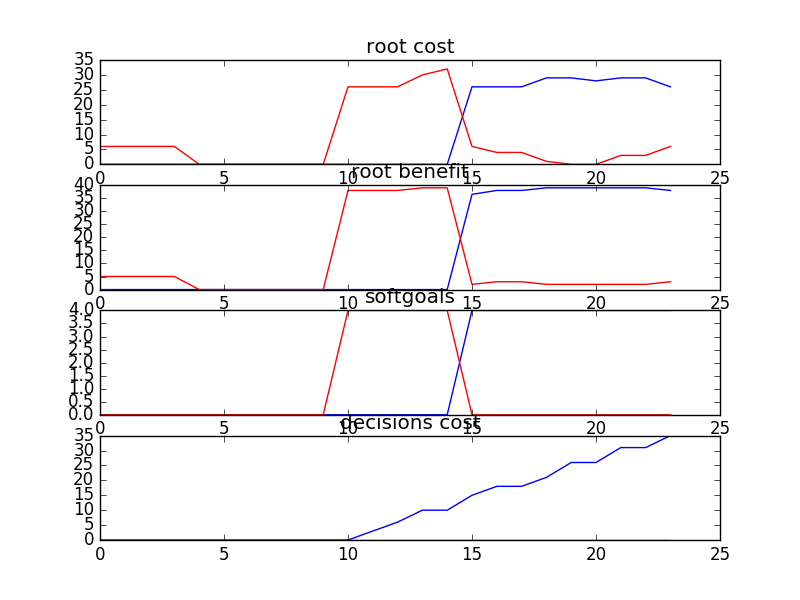
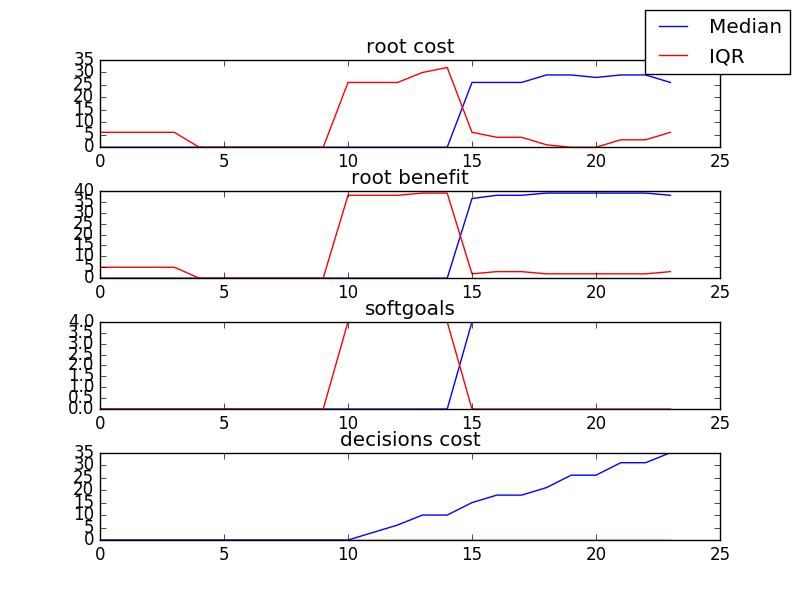
Few changes in plotting

diff --git a/src/utilities/plotter.py b/src/utilities/plotter.py
@@ -3,6 +3,7 @@ from __future__ import print_function, division
 __author__ = 'george'
 
 import matplotlib.pyplot as plt
+import matplotlib.lines as mlines
 import numpy as np
 from lib import *
 
@@ -131,7 +132,8 @@ def line_plot(x_axis, y_axes, fig_name="temp.png"):
   plt.savefig(fig_name)
 
 def med_spread_plot(data, obj_names, fig_name="temp.png", **settings):
-  plt.figure(1)
+  fig = plt.figure(1)
+  fig.subplots_adjust(hspace=0.5)
   directory = fig_name.rsplit("/", 1)[0]
   mkdir(directory)
   for i, data_map in enumerate(data):
@@ -149,5 +151,8 @@ def med_spread_plot(data, obj_names, fig_name="temp.png", **settings):
       plt.subplot(index)
       plt.title(obj_names[i])
       plt.plot(x, meds, 'b-')
+  blue_line = mlines.Line2D([],[], color='blue', label='Median')
+  red_line = mlines.Line2D([],[], color='red', label='IQR')
+  plt.figlegend((blue_line, red_line), ('Median', 'IQR'), 'upper right')
   plt.savefig(fig_name)
   plt.clf()
